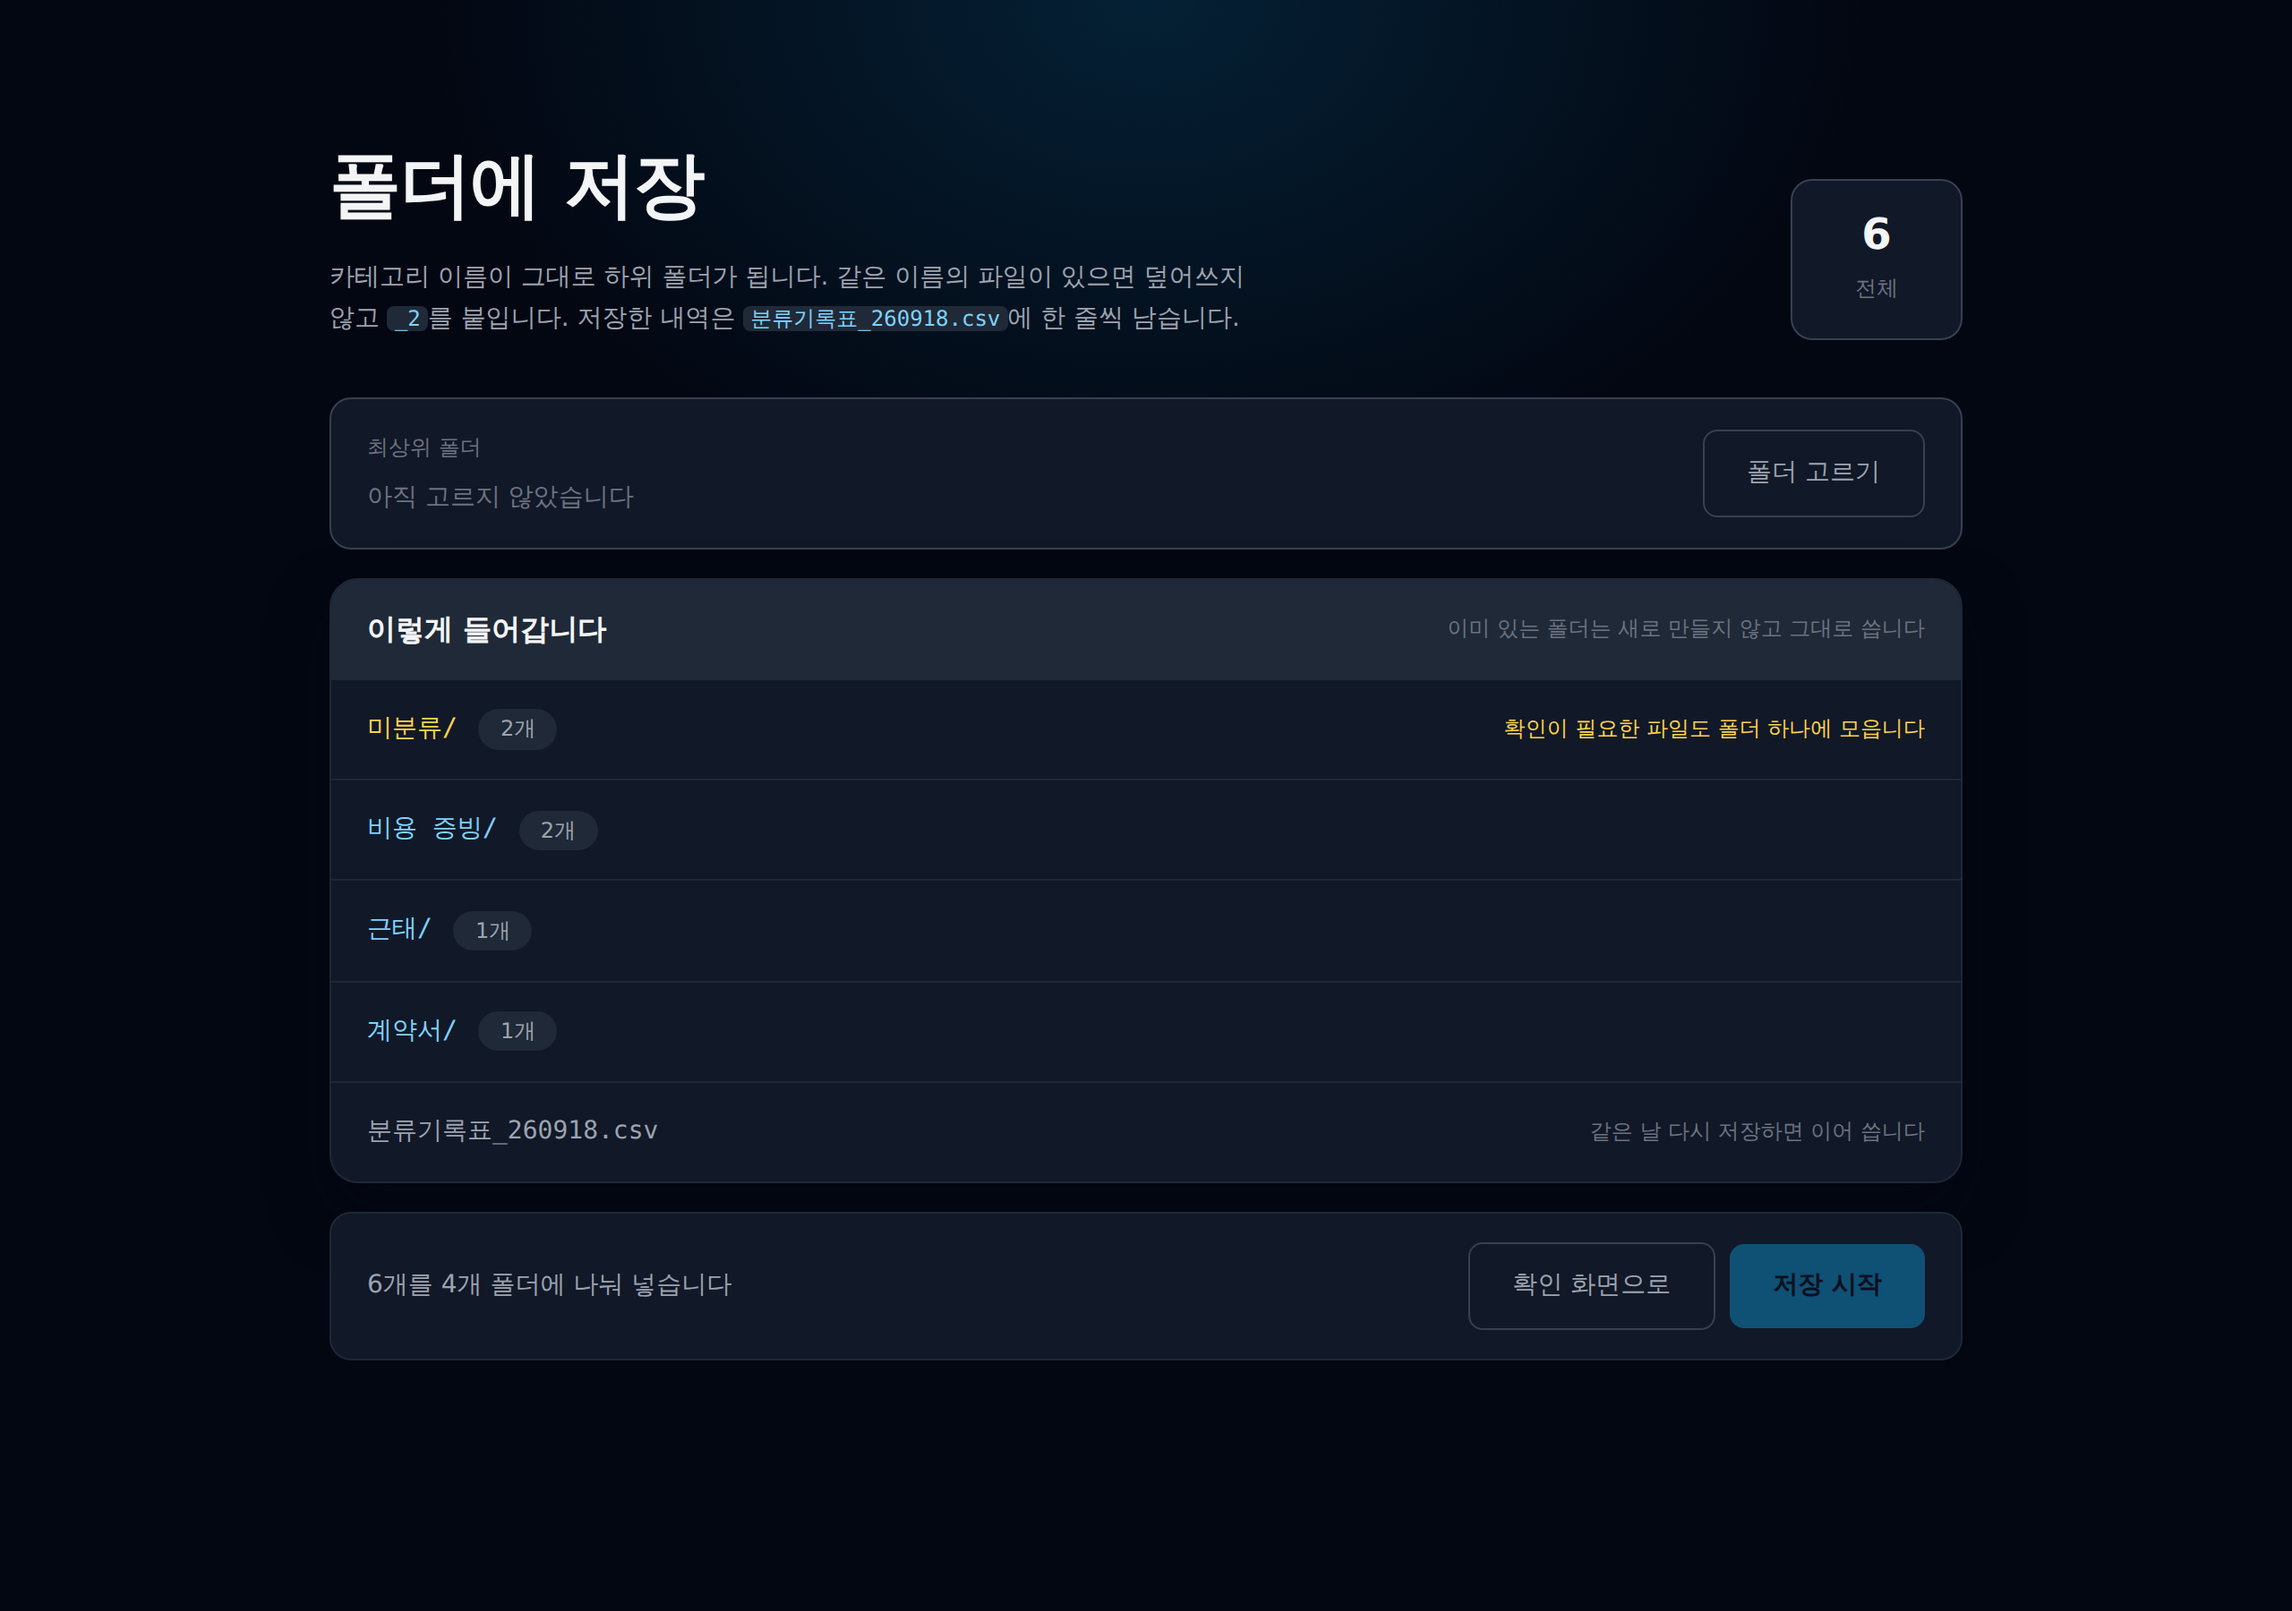
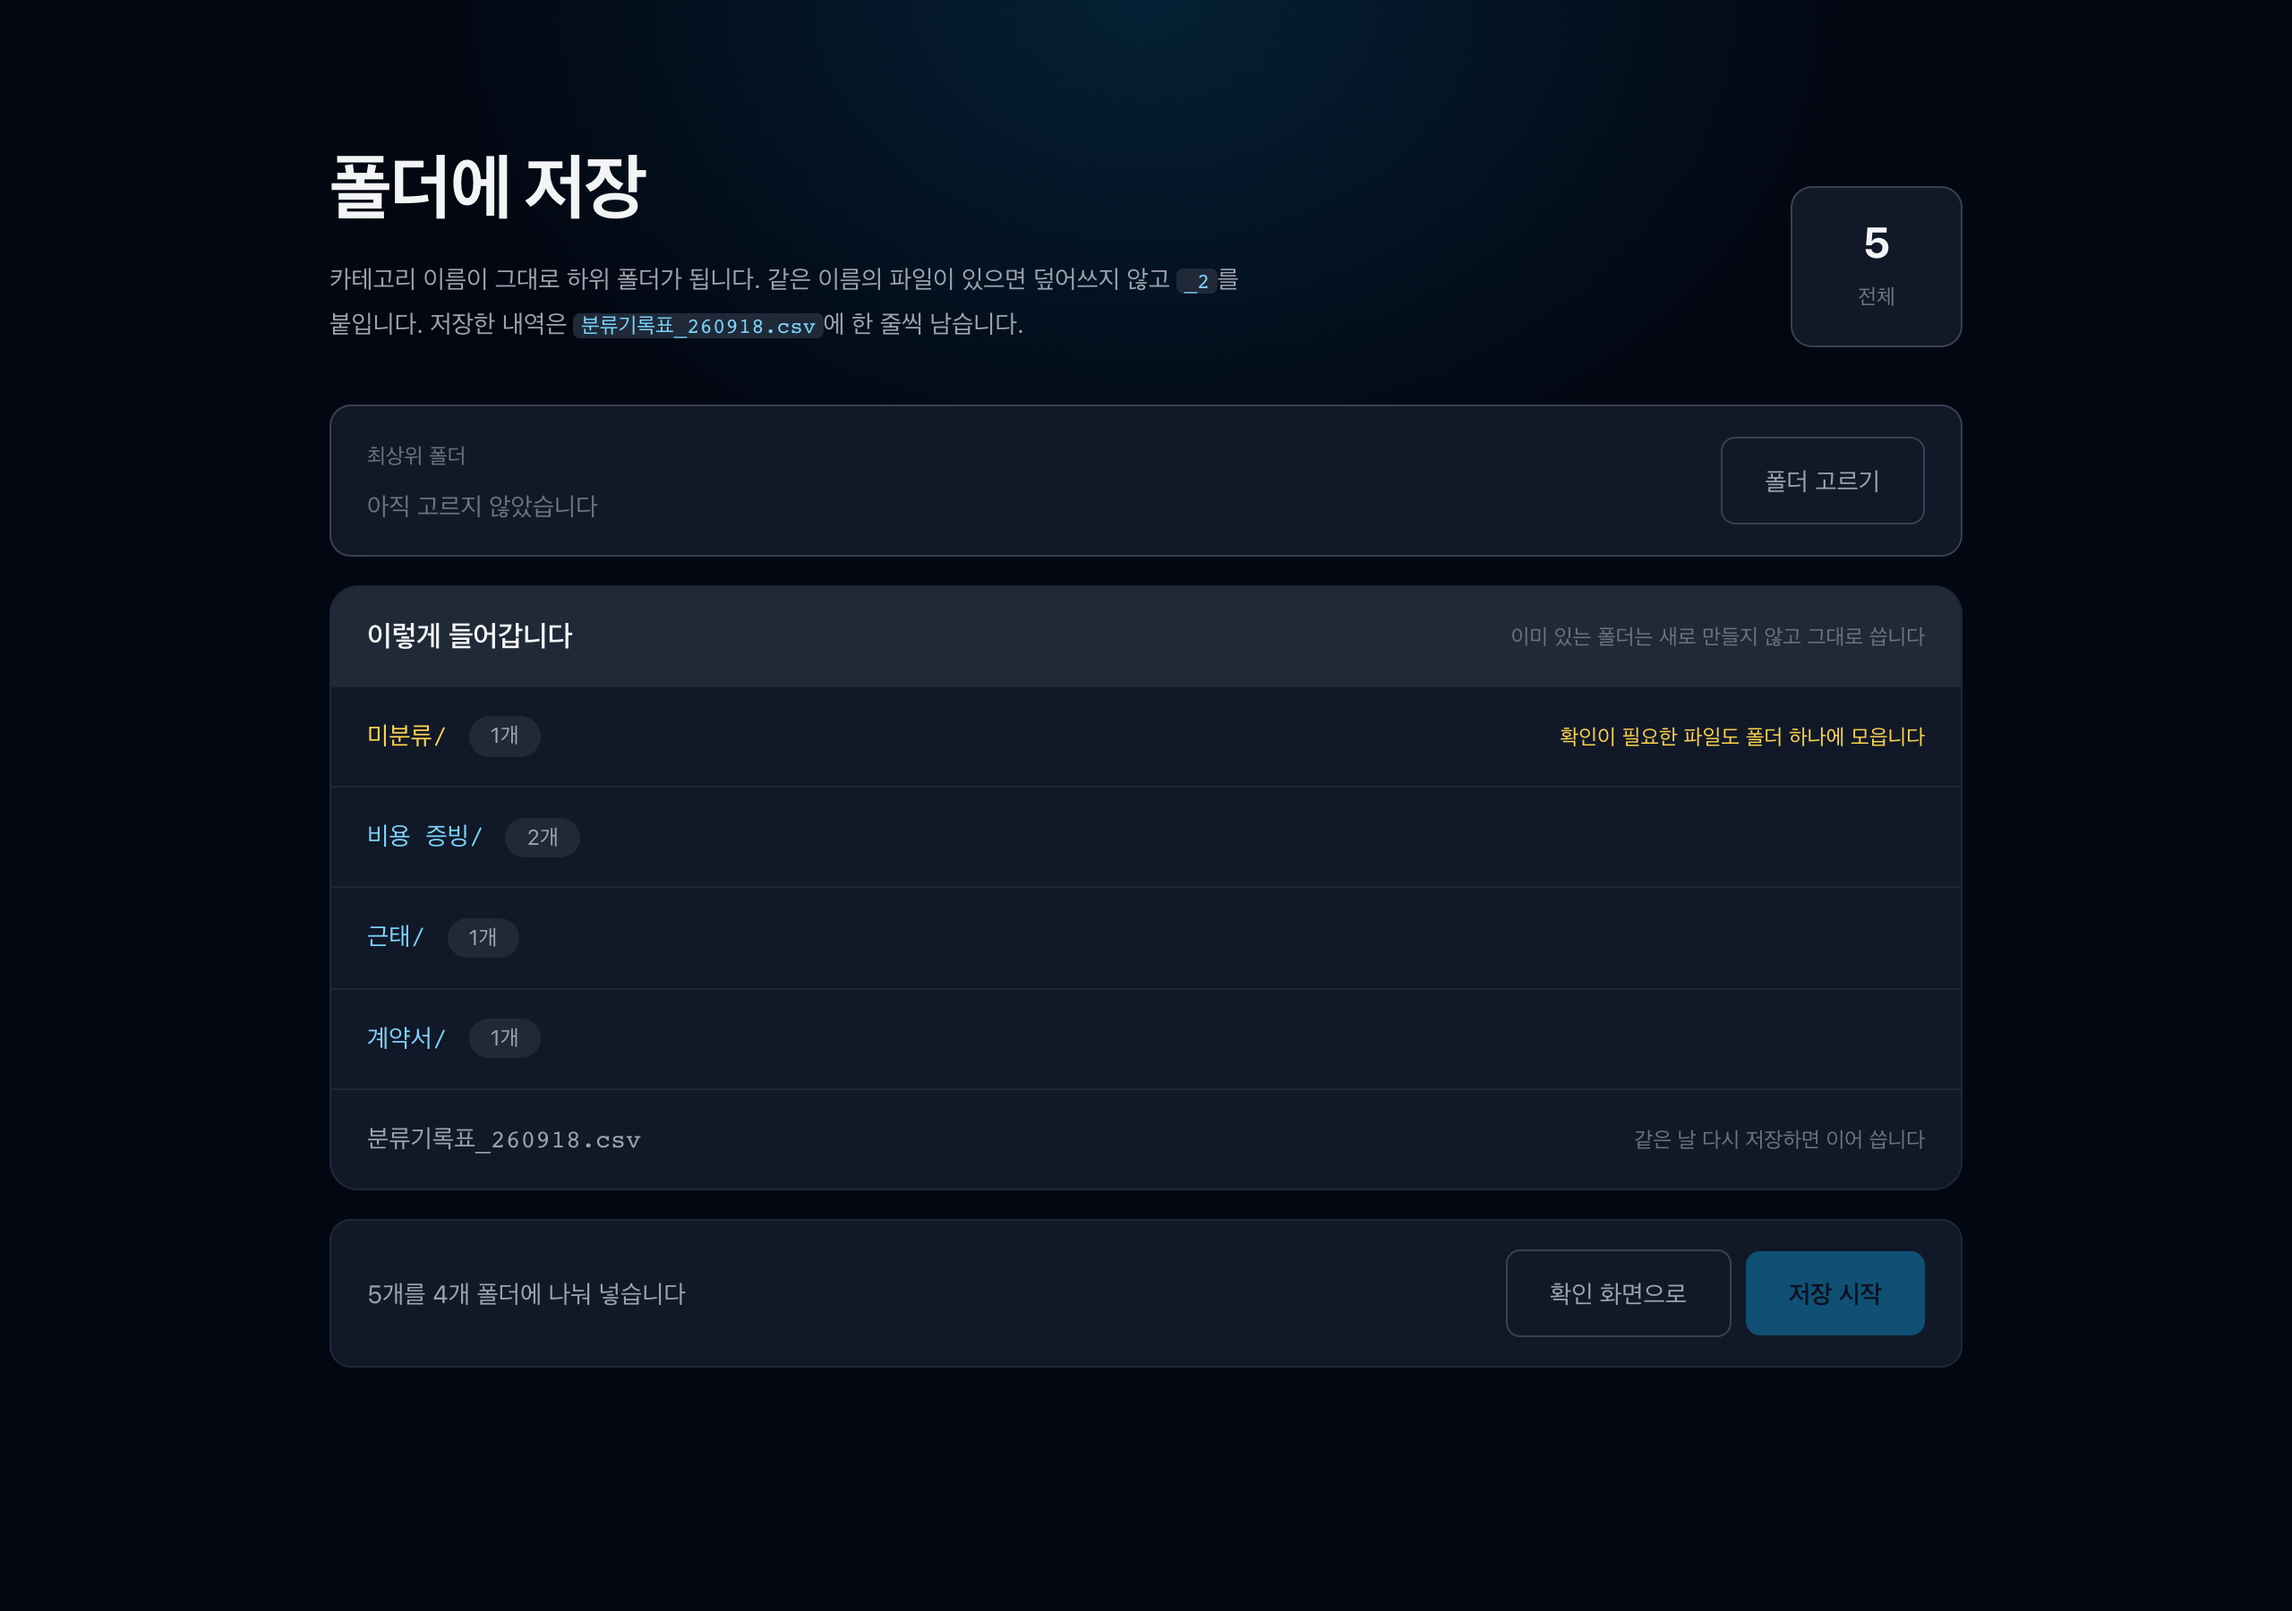
docs: S3 저장 화면 캡처 3장 교체
- docs/screens/s3-01~03 실제 저장 흐름으로 다시 촬영 (2560x1800)
- SCREEN_DESCRIPTIONS.md, README 캡처 관련 서술 갱신

diff --git a/docs/SCREEN_DESCRIPTIONS.md b/docs/SCREEN_DESCRIPTIONS.md
@@ -97,14 +97,14 @@ S1과 같은 토큰·카드 모양을 쓴다([0010](adr/0010-design-tokens.md)).
 
 폴더에 넣고 기록표를 남기는 화면. 스토리맵 `저장한다` + `기록한다`.
 
-### 구성 (2026-09-18, 껍데기)
+### 구성 (2026-09-18, R1)
 
 S1·S2와 같은 토큰·카드 모양을 쓴다([0010](adr/0010-design-tokens.md)). 한 화면 안에서 `고르기 → 저장 중 → 결과` 세 단계로 바뀐다.
 
 | 자리 | 보이는 것 |
 |---|---|
 | 머리 | 제목 + 안내문(`_2` 규칙과 기록표 파일명). 오른쪽에 `전체` 칸, 저장을 시작하면 `저장됨`, 실패가 생기면 `실패` 칸이 붙는다 |
-| 폴더 줄 | 고른 최상위 폴더 경로와 `폴더 고르기` · `폴더 바꾸기`. 저장 중에는 잠근다([0003](adr/0003-web-file-system-access.md)) |
+| 폴더 줄 | 고른 최상위 폴더 이름과 `폴더 고르기` · `폴더 바꾸기`. 저장 중에는 잠근다([0003](adr/0003-web-file-system-access.md)) |
 | 미리보기 | 저장 전에만 나온다. 만들어질 카테고리 폴더와 개수, 맨 아래 `분류기록표_YYMMDD.csv` 한 줄([0006](adr/0006-log-csv.md)). 미분류 폴더는 amber |
 | 목록 | 저장을 시작하면 미리보기 자리에 들어선다. 한 줄에 `원래 파일명 → 카테고리/저장될 이름` + 상태 배지. 위에서부터 한 줄씩 `저장 중 → 저장됨`으로 바뀐다 |
 | 바닥 바 | 저장 전 `확인 화면으로` · `저장 시작`(폴더가 없으면 비활성). 끝나면 결과 문구와 `실패분 다시 시도` · `새 파일 분류하기` |
@@ -112,17 +112,19 @@ S1·S2와 같은 토큰·카드 모양을 쓴다([0010](adr/0010-design-tokens.m
 미분류 파일도 최상위에 두지 않고 `미분류` 폴더에 넣는다([0014](adr/0014-unclassified-folder.md)).
 상태 배지는 S1과 같은 컴포넌트다. 여기서는 `대기 · 저장 중 · 저장됨 · 실패`를 쓴다([0011](adr/0011-partial-save-failure.md)).
 
-아직 가짜인 것 (껍데기라서)
+### 실제 로직 (2026-09-18)
 
-- 저장 대상은 S2의 실제 파일 목록을 props로 받는다. 저장 실행은 아직 데모다.
-- `폴더 고르기`가 `showDirectoryPicker()`를 부르지 않고 예시 경로만 넣는다. 핸들을 idb-keyval에 기억하는 것도 아직 없다 (`TODO(R1)`, [0003](adr/0003-web-file-system-access.md))
-- 저장이 `setTimeout`으로 상태만 바꾼다. 실제 파일 쓰기·`_2` 확인·기록표 이어 쓰기는 없다 (`TODO(R1)`)
-- `실패분 다시 시도`는 두 번째에 무조건 성공한다
-- S2에서 실제 목록과 함께 넘어온다. `#s3` 데모 진입은 제거했다.
+- `폴더 고르기`가 `showDirectoryPicker({ mode: 'readwrite' })`를 부르고 핸들을 idb-keyval에 기억한다([0003](adr/0003-web-file-system-access.md)). 다시 열면 권한이 남아 있을 때만 그 폴더를 그대로 쓴다.
+- 저장 직전에 대상 폴더를 읽어 저장될 이름을 확정한다. 같은 이름이면 `_2`, `_3` … 을 붙이고 대기 중인 줄에도 그 이름이 보인다([0005](adr/0005-filename-conflict.md)). 폴더는 없을 때만 만들고, 있으면 그대로 쓴다(이름이 정확히 같을 때만 재사용).
+- 파일 하나를 쓸 때마다 `분류기록표_YYMMDD.csv`에 한 줄씩 이어 쓴다. 파일을 새로 만들 때만 BOM과 헤더를 붙인다([0006](adr/0006-log-csv.md)).
+- 실패해도 반복문은 끝까지 돌고 성공분은 되돌리지 않는다([0011](adr/0011-partial-save-failure.md)). `실패분 다시 시도`와 행의 `다시 시도`는 실패한 파일만 다시 쓴다.
+- 기록표에만 실패한 파일은 다시 시도할 때 파일을 다시 쓰지 않고 기록만 남긴다. 같은 파일이 둘 생기지 않게 한다.
+- 최상위 폴더 경로는 브라우저가 알려주지 않아 폴더 **이름**만 보여준다.
 
 ### 캡처 (2026-09-18, 껍데기)
 
 예시 데이터로 찍었다. 실제 업무 문서가 아니다. 1280×900, 2배 배율.
+아래 캡처는 껍데기 때 찍은 것이라 저장 로직을 붙인 뒤 아직 다시 찍지 않았다.
 
 | 상태 | 캡처 | 보이는 것 |
 |---|---|---|
@@ -137,6 +139,7 @@ S1·S2와 같은 토큰·카드 모양을 쓴다([0010](adr/0010-design-tokens.m
 | 폴더 선택 시 | 사용자가 취소하거나 권한을 거부 | 아무것도 만들지 않고 중단. 확인 화면 상태를 그대로 유지 | `폴더를 선택해야 저장할 수 있습니다.` | [0003](adr/0003-web-file-system-access.md) |
 | 파일 쓰기 직전 | 대상 폴더에 같은 이름의 파일이 있음 | `_2`, `_3` … 을 붙인다. 덮어쓰지 않는다 | 행에 `출장정산_영수증.pdf → 비용 증빙/출장정산_영수증_2.pdf`와 amber 안내 한 줄 | [0005](adr/0005-filename-conflict.md) |
 | 파일 쓰기 중 | 12개 중 5개를 쓴 뒤 실패 (권한 회수, 용량 부족) | 되돌리지 않는다. 성공분은 두고 실패분만 재시도 | `5개 저장됨 · 7개 실패 · 실패분 다시 시도` | [0011](adr/0011-partial-save-failure.md) |
+| 기록표 쓰기 중 | 파일은 저장됐는데 기록표에 못 씀 | 실패로 표시하되 이미 쓴 파일은 그대로 둔다. 재시도는 기록만 다시 한다 | 행에 `파일은 저장했지만 기록표에 남기지 못했습니다.` | [0011](adr/0011-partial-save-failure.md) |
 | 저장 대상에 미분류가 있음 | 읽지 못했거나 분류하지 못한 파일 | 버리지 않고 `미분류` 폴더에 똑같이 저장·기록한다 | 미리보기의 `미분류/` 줄이 amber | [0007](adr/0007-supported-formats.md) · [0014](adr/0014-unclassified-folder.md) |
 
 ---

diff --git a/README.md b/README.md
@@ -63,7 +63,15 @@ DeepSeek은 strict `json_schema`를 `"This response_format type is unavailable n
 - 공백을 제외한 추출 텍스트가 10자 미만이면 API를 호출하지 않습니다.
 - 분류는 파일별로 순차 처리하며 자동 재시도는 하지 않습니다. 실패한 파일만 확인 화면에서 재시도합니다.
 - R1 응답은 카테고리만 받습니다. 근거 인용문은 R2입니다.
-- S1→S2는 실제 파일 목록을 공유합니다. S3에도 목록은 전달되지만 **폴더 선택·저장·CSV는 아직 화면 데모**입니다.
+- S1→S2→S3까지 실제 파일 목록을 공유합니다. 저장은 최상위 폴더를 한 번 고르면 핸들을 idb-keyval에 기억해 다음에 그대로 씁니다.
+
+## 저장 규칙
+
+- 카테고리 이름이 그대로 하위 폴더가 되고, `미분류`도 예외 없이 폴더를 만들어 넣습니다(ADR 0003 · 0014).
+- 같은 이름의 파일이 있으면 덮어쓰지 않고 `_2`, `_3` … 을 붙입니다. 이름은 저장 직전에 확정합니다(ADR 0005).
+- 파일 하나를 쓸 때마다 `분류기록표_YYMMDD.csv`에 한 줄씩 이어 씁니다. 파일을 새로 만들 때만 UTF-8 BOM과 헤더를 붙입니다(ADR 0006).
+- 중간에 실패해도 끝까지 돌고 성공분은 되돌리지 않습니다. 재시도는 실패한 파일만 합니다(ADR 0011).
+- 기록표 쓰기만 실패한 파일은 재시도할 때 파일을 다시 쓰지 않습니다. 같은 파일이 둘 생기기 때문입니다.
 
 ## 로직과 테스트
 
@@ -71,7 +79,11 @@ DeepSeek은 strict `json_schema`를 `"This response_format type is unavailable n
 - `src/lib/extractText.js`, `src/lib/extractors/`: 브라우저 텍스트 추출
 - `src/lib/documentFlow.js`: 읽기·분류·실패분 재시도
 - `src/lib/classification.js`: 요청 구성·응답 검증·자체 API 호출
+- `src/lib/directory.js`: 최상위 폴더 선택·권한·핸들 기억
+- `src/lib/savePlan.js`: 저장될 이름·경로 결정과 `_2` 충돌 처리
+- `src/lib/saveFiles.js`: 카테고리 폴더에 쓰기와 실패 격리
+- `src/lib/logCsv.js`: 분류기록표 이어 쓰기
 - `server/classifier.js`: 서버 전용 제공자 설정과 호출 어댑터
 - `api/classify.js`: 입력 검증과 HTTP 응답
 
-`npm test`는 외부 API를 호출하지 않고 의존성을 주입해 부분 실패, 재시도, 삭제 후 늦은 응답, 전송 범위와 환경 변수 전환을 검증합니다.
+`npm test`는 외부 API를 호출하지 않고 의존성을 주입해 부분 실패, 재시도, 삭제 후 늦은 응답, 전송 범위와 환경 변수 전환을 검증합니다. 저장 로직은 메모리 폴더 핸들을 주입해 `_2` 충돌, 부분 실패, 기록표 이어 쓰기까지 검증합니다.
